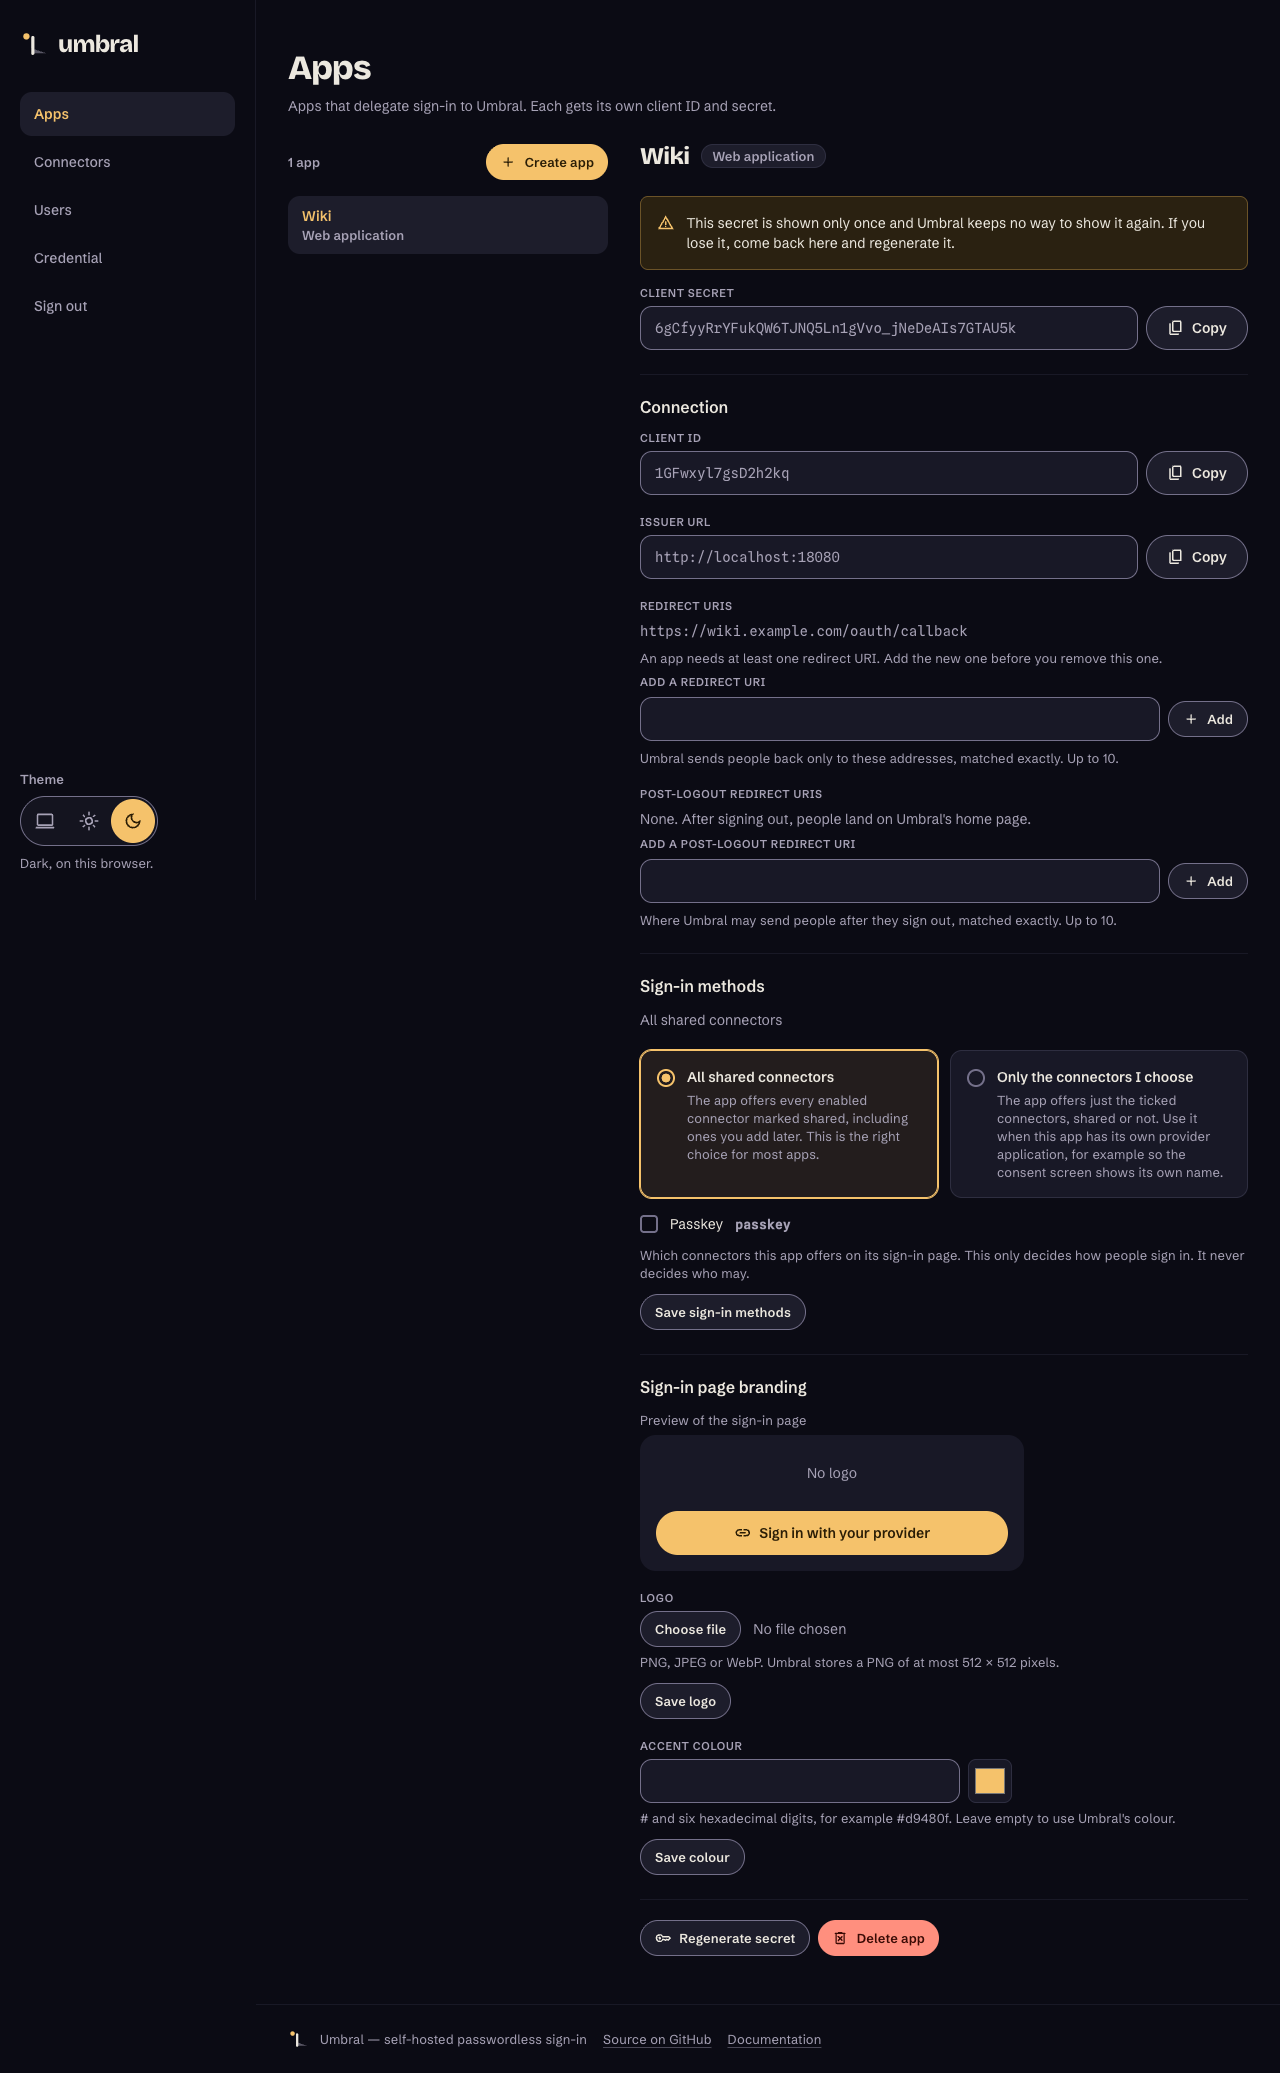
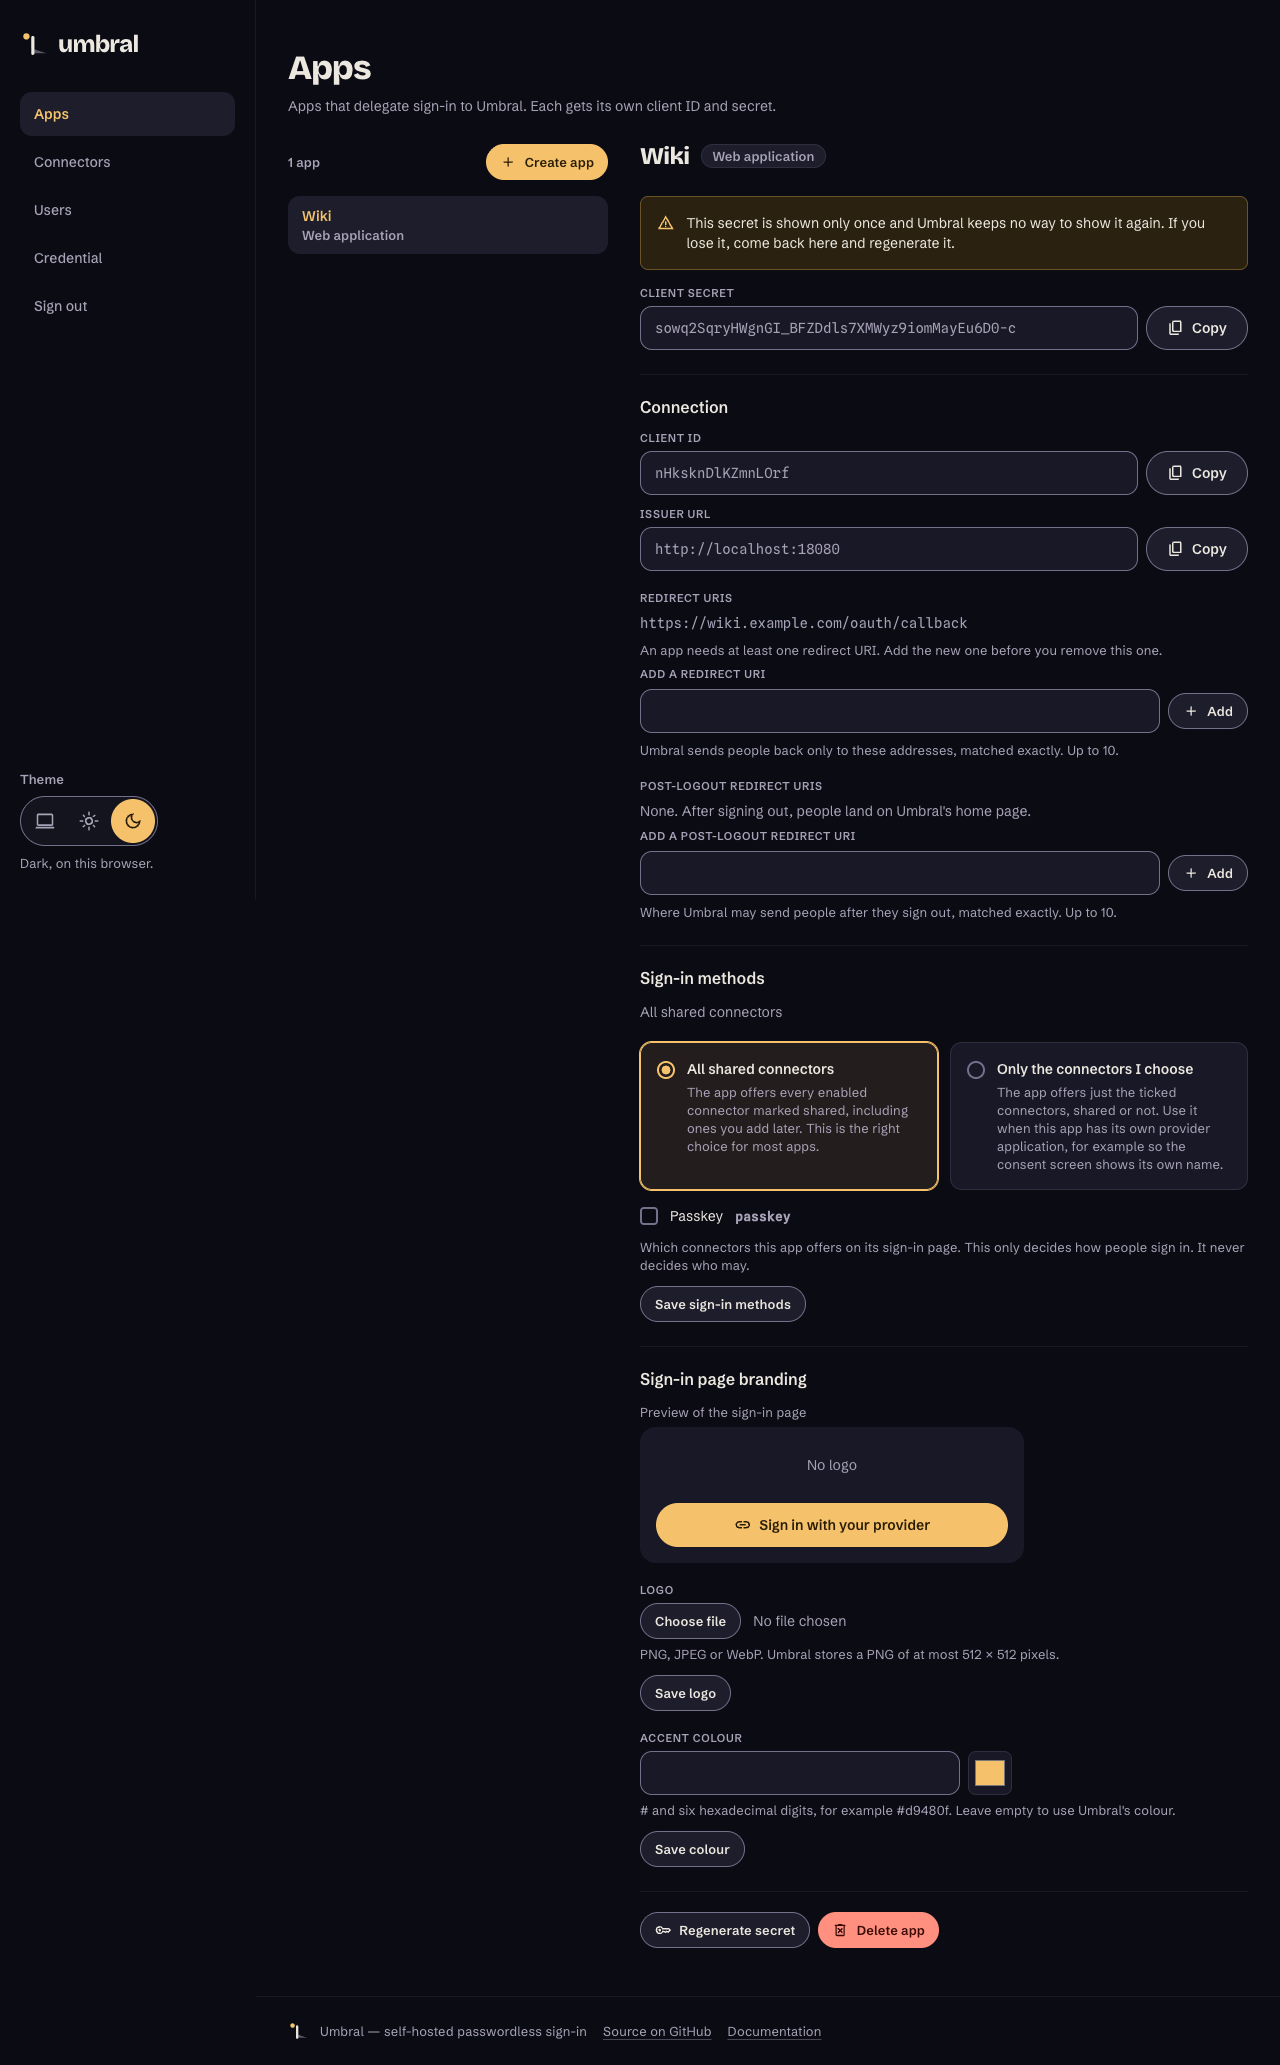
fix(3694): group Client ID and Issuer URL (design review nit)
The design review is clear to merge with one nit: the two fields are one
group, 12px apart, and stay 20px from the redirect lists. The review
(review.md, written by the designer) is committed here as they asked.
Captures and the app-created docs images retaken; app-pane test classes
155/155.

diff --git a/.alta/reviews/2026-11-15-app-connection-fields/notes.md b/.alta/reviews/2026-11-15-app-connection-fields/notes.md
@@ -3,14 +3,15 @@
 Branch `alta/rare-prelude-mgc9`, stacked on `alta/buoyant-taiga-cxt3` (v6pm, the screenshot script): merge it after v6pm.
 
 ## The change
-- `src/Umbral/Handlers/Admin/Apps.fs`, the Connection section of an app's pane: the two copy fields are no longer in a `grid gap-3 sm:grid-cols-2`; they are rows of the section's `space-y-5` stack, as the client secret above them and the redirect-URI lists under them. Below 640px nothing changes (the grid was one column there already).
+- `src/Umbral/Handlers/Admin/Apps.fs`, the Connection section of an app's pane: the two copy fields are no longer in a `grid gap-3 sm:grid-cols-2`; they are one per row, as the client secret above them, in a `space-y-3` wrapper (12px), 20px from the redirect-URI lists (the design review's nit 1, taken). Below 640px nothing changes (the grid was one column there already).
 - `design/contracts/apps-connectors-master-detail.md`, Detail pane item 3: "in a two-column grid from 640px" becomes "one per row", with the date and the reason.
 - `site/scripts/screenshots/capture.mjs`: the `fit` mechanism (try 1180, 1280, 1440, 1600) is gone, since `app-created` was its only user; the frame is taken at 1180 like the other operator screens and its clip ends at the Issuer URL field. The walk now fails if either value is cut at 1180, so the docs image cannot regress silently.
 - `docs/images/app-created-{dark,light}.png` retaken by `run.sh` (the other 14 images came out byte-identical).
 - `changelog.d/fix-app-connection-fields.md` (Fixed).
 
 ## Verification
-- Full suite: **3003 of 3003** passed, 0 skipped (Debug, 24 min 39 s).
+- Full suite at 406b8b0: **3003 of 3003** passed, 0 skipped (Debug, 24 min 39 s).
+- After nit 1 (a wrapper div only): the eight classes that render the app pane (AdminScreen, AppBrandingAdmin, AppConnectorChoice, AppRedirectUris, AppsMasterDetail, DeclaredAdmin, OidcProtocol, Csrf), **155 of 155** passed.
 - `.github/scripts/changelog.sh check`: in order.
 - `site/scripts/screenshots/run.sh`: exit 0; both values whole at 1180px.
 
@@ -29,4 +30,6 @@ Before: side by side, at 1280 the issuer showed `http://localhost:808`.
 
 ## Questions for the designer
 1. **360px.** The field holds 22 characters there, so an issuer such as `https://login.example.com` (25) is cut on a phone, as it was before this change. Copy still copies it whole. Is that acceptable, or should the issuer show wrapped below 640px (like the home page's `copyText`)? Not in this change.
-2. **Rhythm.** The two fields are 20px apart (the section's `space-y-5`), the same gap as between the issuer and the redirect URIs. A tighter pair (12px) would group them; I kept one rhythm for the section.
+2. **Rhythm.** The two fields were 20px apart (the section's `space-y-5`), the same gap as between the issuer and the redirect URIs. A tighter pair (12px) would group them; I kept one rhythm for the section.
+
+Answers (review.md): 1 is a follow-up for the queue (`Components.copyText` for both values); 2 became nit 1, taken: the pair is 12px apart. Captures and docs images retaken after the nit.

diff --git a/.alta/reviews/2026-11-15-app-connection-fields/review.md b/.alta/reviews/2026-11-15-app-connection-fields/review.md
@@ -1,0 +1,32 @@
+# Design review: Client ID and Issuer URL, one per row
+
+Task 3694. Branch `alta/rare-prelude-mgc9`, `406b8b0`, stacked on v6pm. Reviewed 2026-11-15 by
+the design reviewer from two of the four captures (`pane-1280-dark`, `pane-360-light`). The
+docs images were not opened.
+
+## Verdict
+
+**Clear to merge. No blocking items; one nit. One follow-up for the queue.**
+
+- At 1280 each value shows whole in its own row, with its Copy at the right edge, aligned with
+  the secret's field above. The pane reads as a column of fields, which it is.
+- At 360 nothing changes, as expected.
+- The contract's item 3, amended to "one per row" with the date and the reason: confirmed as
+  written.
+
+## Your two questions
+
+1. **A real issuer cut at 360**: acceptable for this change, and not the end state. These two
+   values are only read and copied, so they should be `Components.copyText` (wrapping mono text
+   with Copy under it), as the home page's issuer and the Bluesky pane's metadata address are.
+   That shows any value whole at every width. Follow-up for the queue, since the docs image
+   `app-created` changes with it.
+2. **Rhythm**: nit 1.
+
+## Nit
+
+1. **Group the pair.** Client ID and Issuer URL are two fields of one group; the redirect lists
+   are the next group. Put the pair 12px apart (`space-y-3` inside one wrapper), and keep 20px
+   between the pair and the lists.
+
+No re-check needed.
